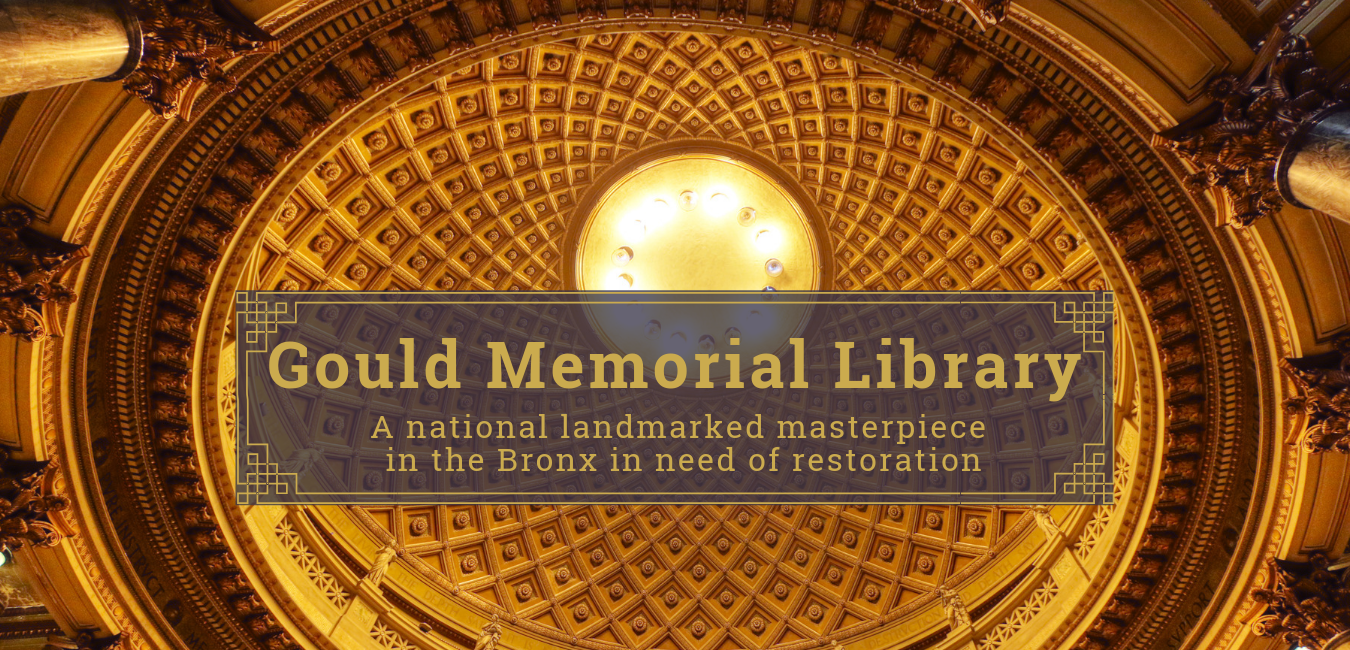
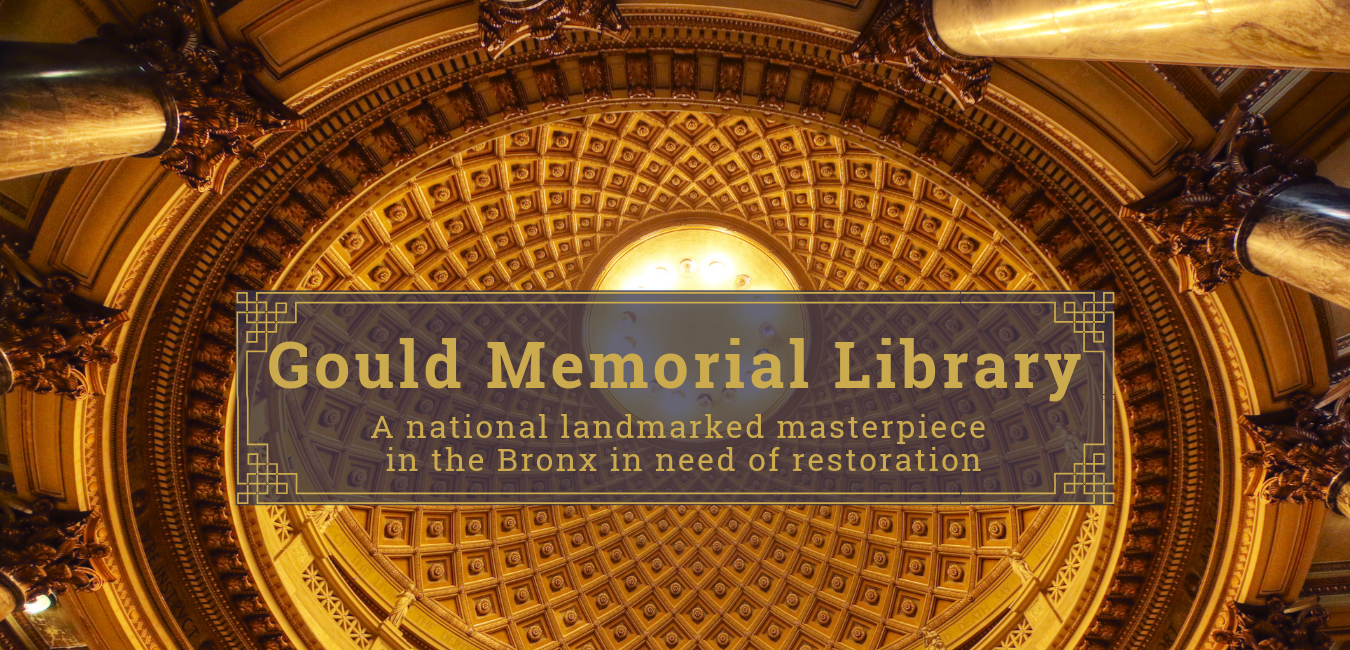
hi

diff --git a/js/maps.js b/js/maps.js
@@ -241,11 +241,6 @@ map.on('style.load', function() {
     if (lot) {  // if there's a lot under the mouse, do stuff
       map.getCanvas().style.cursor = 'pointer';  // make the cursor a pointer
 
-
-// if address is BCC, then display a popup when lot is clicked
-    if (lot) {
-         if (plutouh.address === '1930 SEDGWICK AVENUE') .setPopup(new mapboxgl.Popup();}
-      // lookup the corresponding description for the land use code
       var landuseDescription = LandUseLookup(parseInt(lot.properties.landuse)).description;
 
       // use jquery to display the address and land use description to the sidebar
@@ -265,6 +260,15 @@ map.on('style.load', function() {
     }
   })
 })
+
+if (plutouh.address === '1930 SEDGWICK AVENUE') {
+  new mapboxgl.Popup({ offset: 10 })
+  .setLngLat(e.point)
+  .setHTML('O HAI')
+  .addTo(map);
+}
+
+
 
 var popup = new mapboxgl.Popup({ offset: 10 })
 

diff --git a/css/style.css b/css/style.css
@@ -50,7 +50,7 @@ div.body {
 }
 img {
 	height: auto;
-	max-width: 100%;
+	max-width: 105%;
 }
 .hidden { display: none; }
 .alignleft { float: left; }
